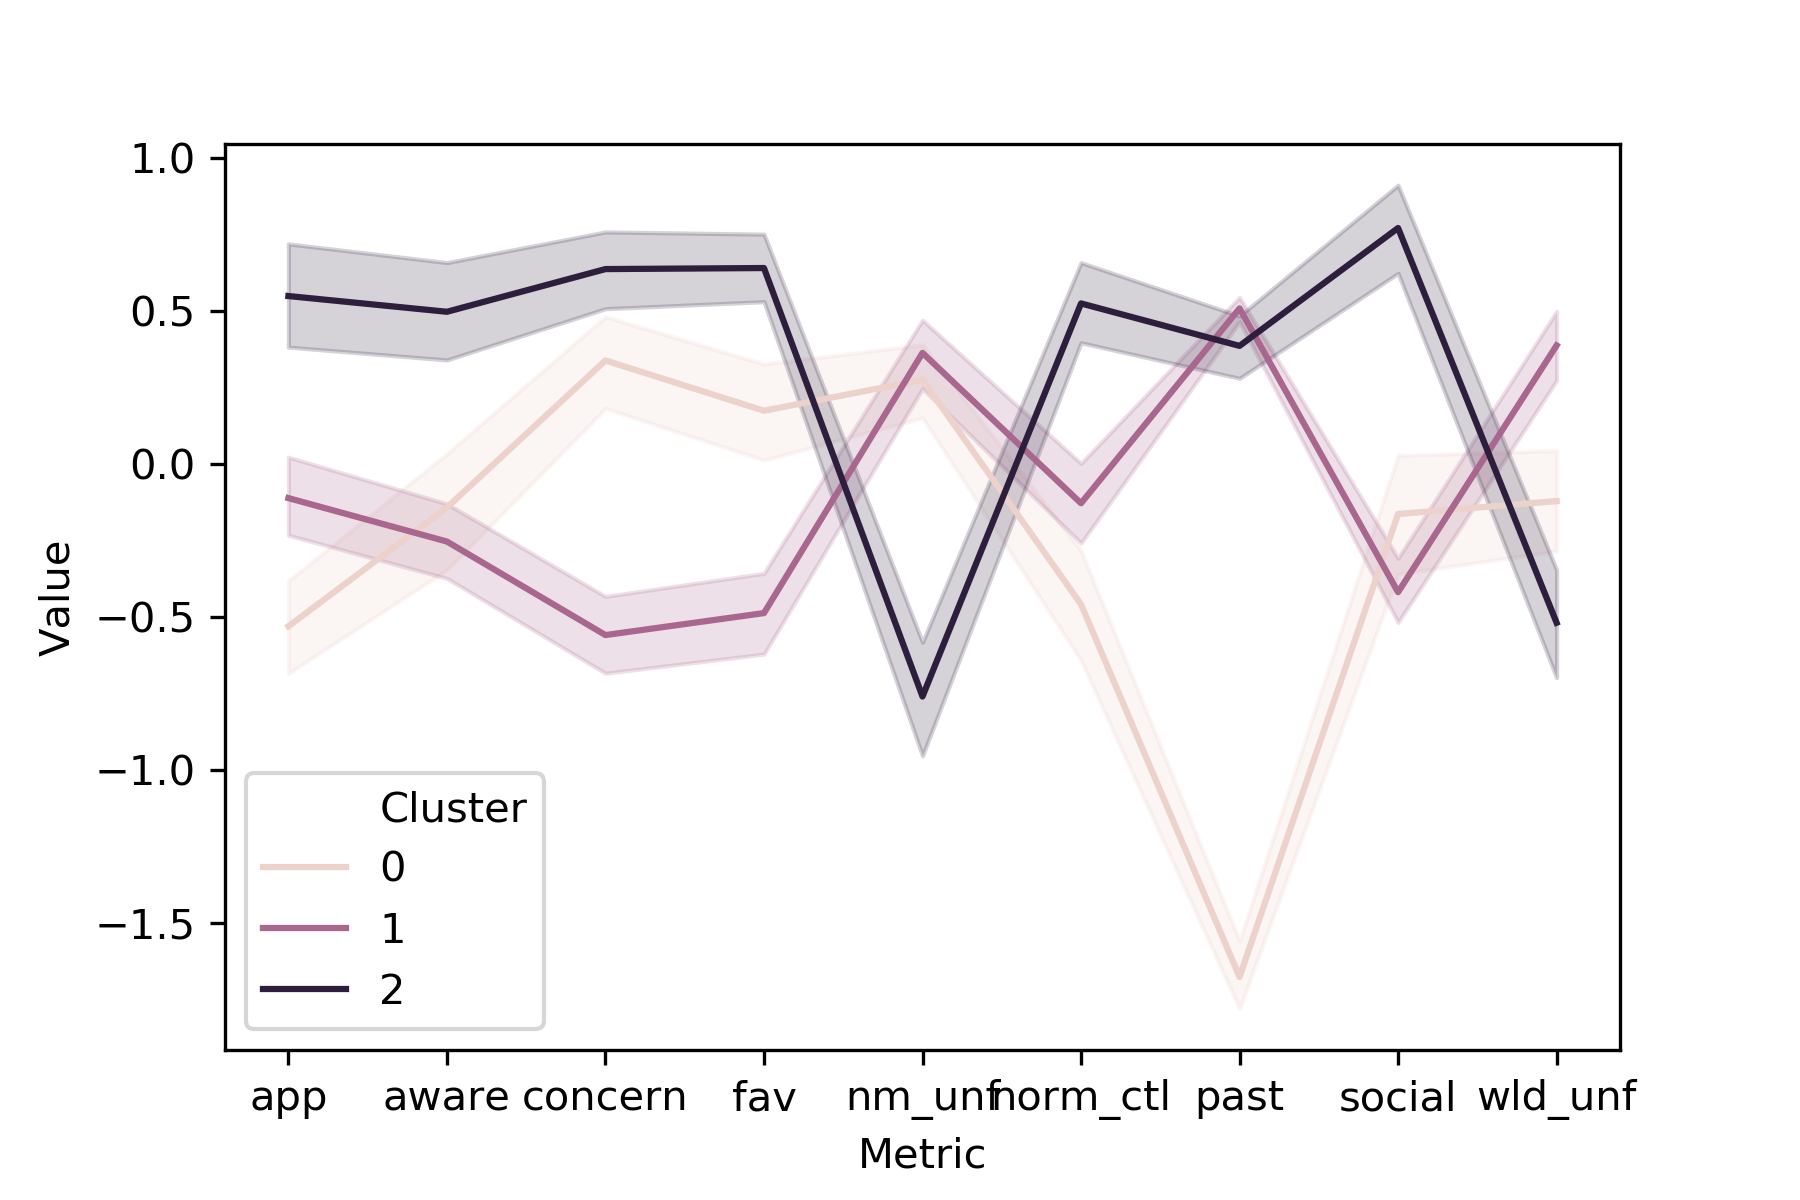
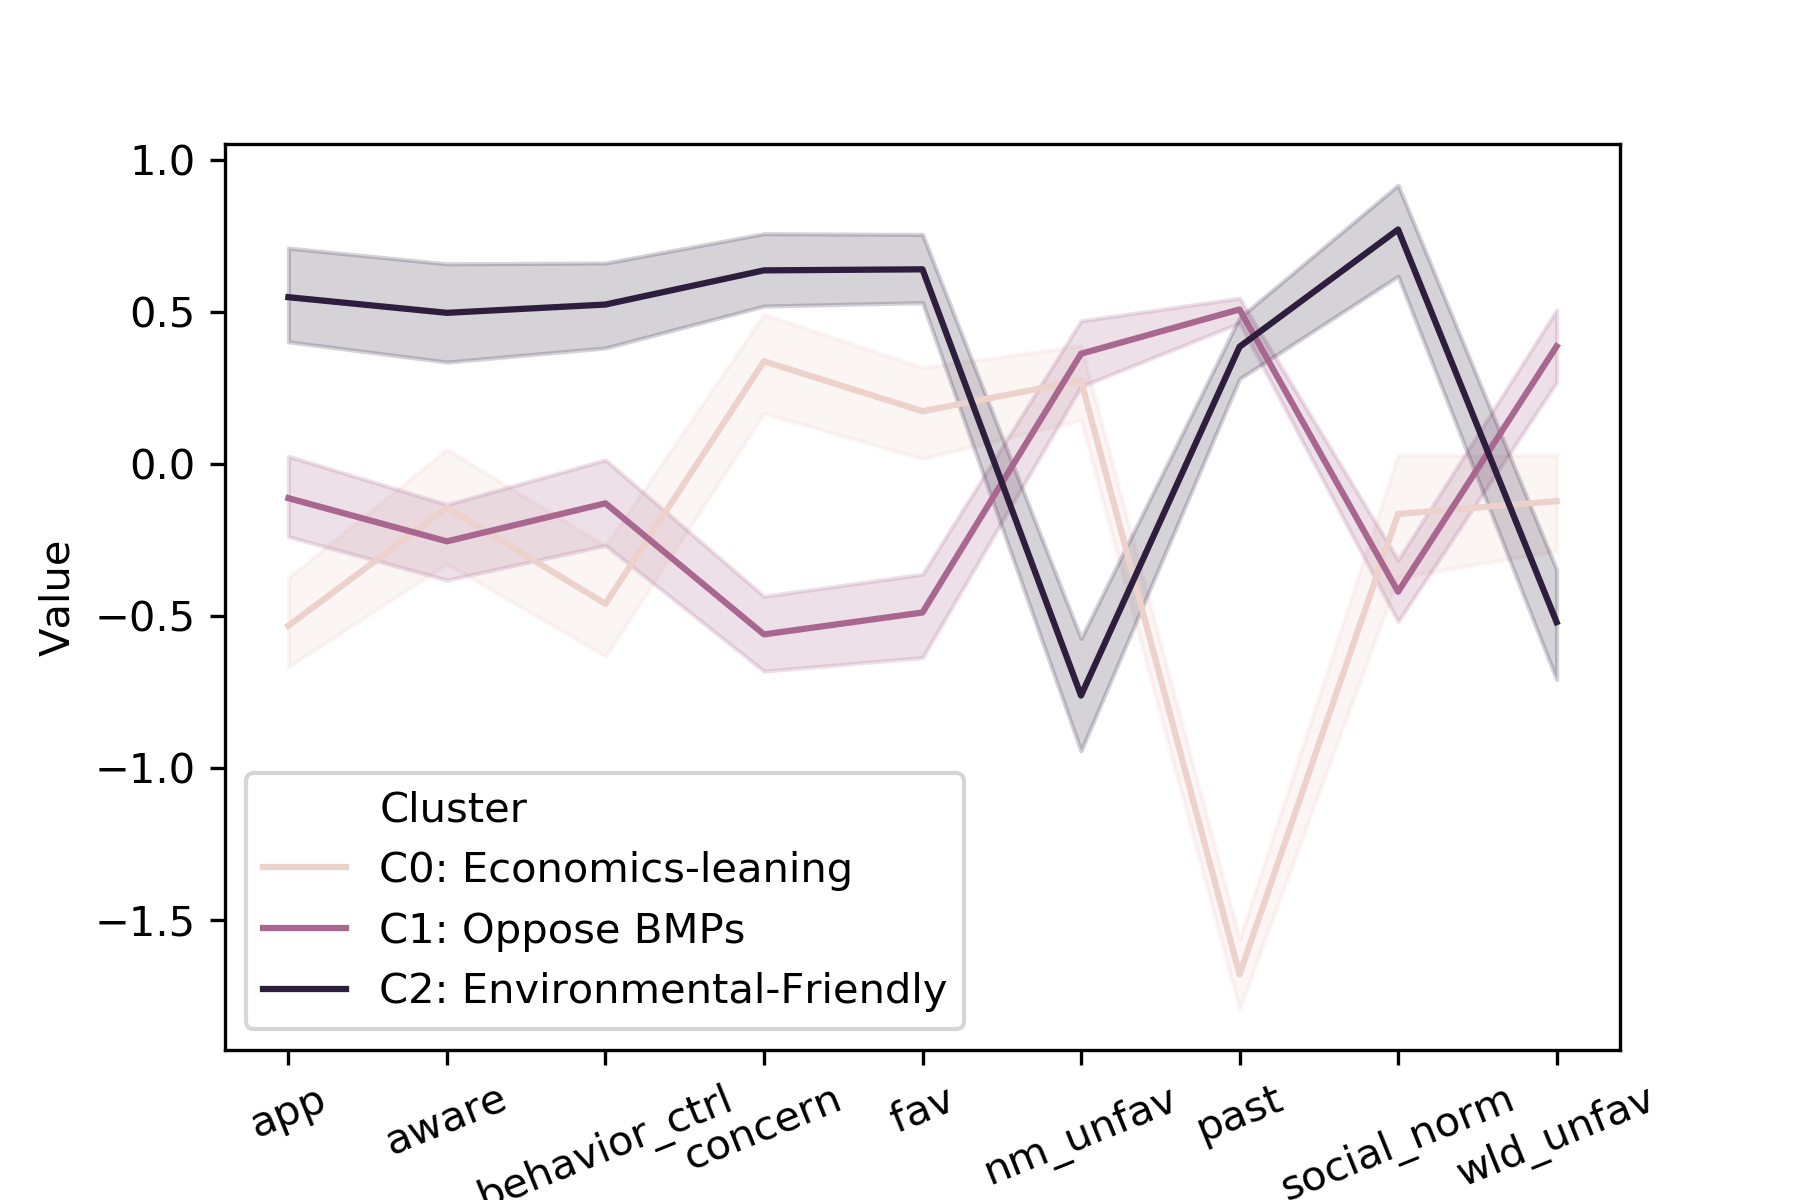
snake plot

diff --git a/survey/code/python/segmentation0.py b/survey/code/python/segmentation0.py
@@ -6,7 +6,8 @@ import matplotlib.pyplot as plt
 import seaborn as sns
 from scipy import stats
 from pathlib import Path
-data_folder = Path('C:/Users/langzx/Desktop/github/DCM/survey/data')
+#data_folder = Path('C:/Users/langzx/Desktop/github/DCM/survey/data')
+data_folder = Path('/Users/ellelang/Documents/github/DCM/survey/data')
 #dat0 =  pd.read_csv(data_folder/'factors7_0415.csv')
 dat0 = pd.read_csv(data_folder/'scoresall_0501.csv')
 
@@ -40,21 +41,21 @@ dat_log = pd.DataFrame({
                         'aware': aware_log,
                         'past': past_log,
                         'app': app_log,
-                        'social': social_log,
+                        'social_norm': social_log,
                         'concern': concern_log,
-                        'norm_ctl': norm_log,
-                        'wld_unf': wldunfav_log,
-                        'nm_unf': nmunfav_log,
+                        'behavior_ctrl': norm_log,
+                        'wld_unfav': wldunfav_log,
+                        'nm_unfav': nmunfav_log,
                         'fav': comp_log
                         })
 
 dat_log.columns
-data_log_sel = dat_log[['aware','past','app','social']]
+data_log_sel = dat_log[['aware','past','app','social_norm']]
 data_log_sel.mean()
 data_log_sel.std()
 sns.violinplot(data = data_log_sel)
 sns.violinplot(data = data_log_sel)
-dataaaa = dat_log[['concern', 'norm_ctl', 'wld_unf','nm_unf', 'fav']]
+dataaaa = dat_log[['concern', 'social_norm', 'wld_unfav','nm_unfav', 'fav']]
 sns.violinplot(data = dataaaa)
 
 
@@ -108,8 +109,8 @@ kmeans.fit(data_normalized)
 
 # Extract cluster labels
 cluster_labels = kmeans.labels_ 
-cluster_labels = cluster_labels
-cluster_labels[0]
+#cluster_labels = cluster_labels
+cluster_labels
 # Create a DataFrame by adding a new cluster label column
 data_k3 = dat.assign(Cluster=cluster_labels)
 
@@ -121,55 +122,65 @@ data_k3['Cluster']
 # Calculate average RFM values and segment sizes per cluster value
 grouped.agg('mean').round(3)
 
-''''''
-'aware', 'past',
-'app', 'social',
-'concern','norm_ctl',
-'wld_unf', 'nm_unf', 'fav'
+#'''''''
+#'aware', 'past',
+#'app', 'social',
+#'concern','norm_ctl',
+#'wld_unf', 'nm_unf', 'fav'
 
- 'concern','social',
- 'app', 'past'
+ #'concern','social',
+# 'app', 'past'
 
-''''''
+#''''''
+## already save the cluster files. assign the cluster values 
+data_k3 = pd.read_csv(data_folder/"fscore_0504_9_cluster.csv")
+
 data_normalized['Cluster'] = data_k3['Cluster']
 data_normalized['id'] = dat0['id']
 datanormalized_melt = pd.melt(
   					data_normalized, 
                         
 # Assign CustomerID and Cluster as ID variables
-                    id_vars=['id', 'Cluster'],
+                    id_vars=['id','Cluster'],
 
 # Assign RFM values as value variables
                     value_vars=[ 
                                 'aware', 'past',
-'app', 'social',
-'concern','norm_ctl',
-'wld_unf', 'nm_unf', 'fav'
+'app', 'social_norm',
+'concern','behavior_ctrl',
+'wld_unfav', 'nm_unfav', 'fav'
                                
                                 
                          ], 
                         
 # Name the variable and value
-                    var_name='Metric', value_name ='Value'
+                    var_name='Constructs', value_name ='Value'
 					)
 
 datanormalized_melt.columns
+datanormalized_melt.head(3)
 
 # Add the plot title
-plt.title('Snake plot of normalized variables')
+#plt.title('Snake plot of normalized variables')
 
 # Add the x axis label
-plt.xlabel('Metric')
+plt.xlabel('Constructs Metrics')
 
 # Add the y axis label
 plt.ylabel('Value')
 
+#current_palette = sns.color_palette()
+#sns.color_palette("tab10")
+
 # Plot a line for each value of the cluster variable
 g= sns.lineplot(data=datanormalized_melt,
-             x='Metric', y='Value', hue='Cluster' )
-
-
-
+             x='Constructs', y='Value', hue='Cluster' )
+leg = g.axes.get_legend()
+leg.texts
+new_labels = ['Cluster', 'C0: Economics-leaning', 'C1: Oppose BMPs', 'C2: Environmental-Friendly']
+for t, l in zip(leg.texts, new_labels): t.set_text(l)
+#plt.show()
+plt.xticks(rotation=22)
 plt.savefig(data_folder/'snakeplot.png',dpi=300)
 plt.show()
 
